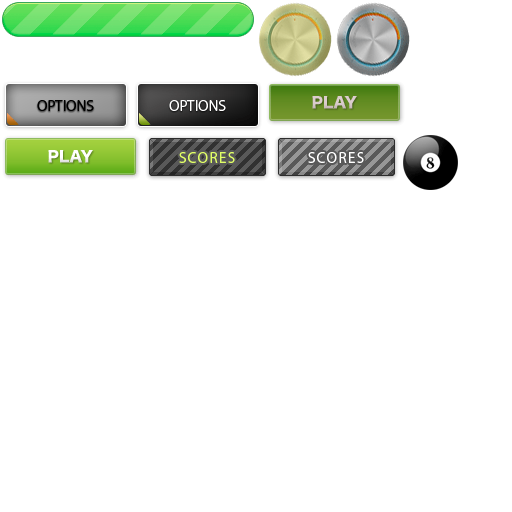
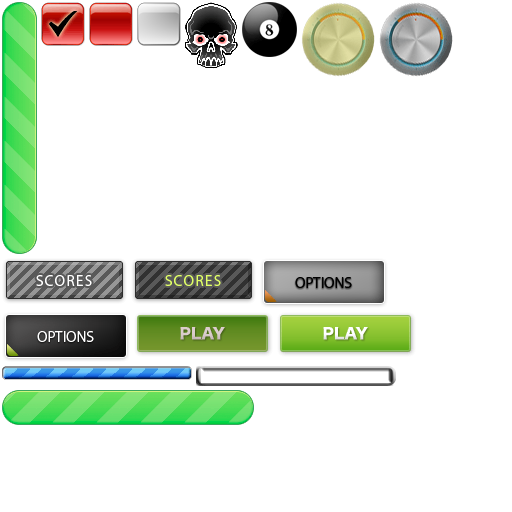
continued support added for TP workflow and HD/SD

diff --git a/Assets/DemoSceneScripts/KitchenSinkManager.cs b/Assets/DemoSceneScripts/KitchenSinkManager.cs
@@ -12,20 +12,21 @@ public class KitchenSinkManager : MonoBehaviour
 		var playButton = UI.instance.addSpriteButton( "playUp.png", 10, 10 );
 		playButton.highlightedUVframe = UI.instance.uvRectForFilename( "playDown.png" );
 		playButton.highlightedTouchOffsets = new UIEdgeOffsets( 30 );
-		playButton.touchUpInside += sender => Debug.Log( "clicked the button: " + sender );
+		playButton.onTouchUpInside += sender => Debug.Log( "clicked the button: " + sender );
+		
 		
 		// Scores button
 		var scores = UI.instance.addSpriteButton( "scoresUp.png", 10, 75 );
 		scores.highlightedUVframe = UI.instance.uvRectForFilename( "scoresDown.png" );
 		scores.highlightedTouchOffsets = new UIEdgeOffsets( 30 );
-		scores.action = onTouchUpInsideScoresButton;
+		scores.onTouchUpInside += onTouchUpInsideScoresButton;
 		scores.color = new Color( 1, 1, 1, 0.5f );
 		
 		
 		// Options button
 		var optionsButton = UI.instance.addSpriteButton( "optionsUp.png", 10, 130 );
 		optionsButton.highlightedUVframe = UI.instance.uvRectForFilename( "optionsDown.png" );
-		optionsButton.action = onTouchUpInsideOptionsButton;
+		optionsButton.onTouchUpInside += onTouchUpInsideOptionsButton;
 		
 		
 		// Knob
@@ -40,15 +41,13 @@ public class KitchenSinkManager : MonoBehaviour
 		var hSliderKnob = UI.instance.addSprite( "sliderKnob.png", 20, 210 );
 		var hSlider = new UISlider( UI.instance.textureInfoForFilename( "hSlider.png" ), 10, 220, hSliderKnob, UISliderLayout.Horizontal );
 		// Increase our hit area a bit while we are tracking along the slider
-		hSlider.highlightedTouchOffsets = new UIEdgeOffsets( 20, 30, 20, 30 );
-		hSlider.value = 0.2f;
+		hSlider.highlightedTouchOffsets = new UIEdgeOffsets( 30, 20, 30, 20 );
+		hSlider.value = 0.5f;
 		
 		
-		/*
 		// Vertical Slider.  Be sure to offset the sliderKnobs Y value to line it up properly
-		UISprite vSliderKnob = UI.instance.addSprite( new Rect( 412, 50, 35, 10 ), new UIUVRect( 345, 130, 35, 10 ), 1 );
-		UISlider vSlider = new UISlider( new Rect( 420, 50, 20, 200 ), 3, new UIUVRect( 320, 130, 20, 200 ), vSliderKnob, UISliderLayout.Vertical, onVSliderChanged );
-		UI.instance.addTouchableSprite( vSlider );
+		var vSliderKnob = UI.instance.addSprite( "vSliderKnob.png", 420, 0 );
+		var vSlider = UISlider.create( "vSlider.png", 430, 10, vSliderKnob, UISliderLayout.Vertical );
 		// Increase our hit area a bit while we are tracking along the slider
 		vSlider.highlightedTouchOffsets = new UIEdgeOffsets( 20, 30, 20, 30 );
 		vSlider.continuous = true;
@@ -56,30 +55,31 @@ public class KitchenSinkManager : MonoBehaviour
 		
 		
 		// Toggle Button
-		UIUVRect normalUVframe = new UIUVRect( 0, 400, 50, 50 );
-		UIUVRect highlightedUVframe = new UIUVRect( 0, 450, 50, 50 );
-		UIUVRect selectedUVframe = new UIUVRect( 50, 400, 50, 50 );
-		Rect toggleFrame = new Rect( 270, 80, 50, 50 );
-		UIToggleButton toggleButton = new UIToggleButton( toggleFrame, 2, normalUVframe, selectedUVframe, highlightedUVframe );
-		toggleButton.action = onToggleButtonChanged;
-		UI.instance.addTouchableSprite( toggleButton );
-		toggleButton.selected = true; // Dont change this until the button has been added
+		var toggleButton = UIToggleButton.create( "cbUnchecked.png", "cbChecked.png", "cbDown.png", 300, 260 );
+		toggleButton.onToggle += onToggleButtonChanged;
+		toggleButton.selected = true;
 		
 		
 		// Progress/Health bar (be sure the bar is on a lower level than the GUIProgressBar
-		UISprite bar = UI.instance.addSprite( new Rect( 251, 267, 128, 8 ), new UIUVRect( 191, 430, 128, 8 ), 1 );
-		UIProgressBar progressBar = new UIProgressBar( new Rect( 240, 250, 150, 30 ), 3, new UIUVRect( 180, 400, 150, 30 ), bar );
+		var progressBar = UIProgressBar.create( "progressBar.png", "progressBarBorder.png", 5, 3, 200, 150 );
 		progressBar.resizeTextureOnChange = true;
-		UI.instance.addSprite( progressBar );
-		progressBar.value = 0.0f;
+		progressBar.value = 0.4f;
 		
-
+		
 		// Test movement
 		StartCoroutine( marqueePlayButton( playButton ) );
 		StartCoroutine( animateProgressBar( progressBar ) );
 		StartCoroutine( pulseOptionButton( optionsButton ) );
 		
 		
+		/*		
+		// Progress/Health bar (be sure the bar is on a lower level than the GUIProgressBar
+		UISprite bar = UI.instance.addSprite( new Rect( 251, 267, 128, 8 ), new UIUVRect( 191, 430, 128, 8 ), 1 );
+		UIProgressBar progressBar = new UIProgressBar( new Rect( 240, 250, 150, 30 ), 3, new UIUVRect( 180, 400, 150, 30 ), bar );
+		progressBar.resizeTextureOnChange = true;
+		UI.instance.addSprite( progressBar );
+		progressBar.value = 0.0f;
+
 		
 		// Swipe detector view - big, giant touchbleSprite behind all others
 		UISwipeDetector detector = new UISwipeDetector( new Rect( 0, 60f, Screen.width, Screen.height - 60f ), 10, new UIUVRect( 450, 50, 408, 306 ) );
@@ -201,7 +201,8 @@ public class KitchenSinkManager : MonoBehaviour
 	{
 		swipeText.text = direction.ToString();
 	}
-	
+
+
 	// Button callback
 	public void onTouchUpInsideScoresButton( UISpriteButton sender )
 	{

diff --git a/Assets/Plugins/UISpriteManager.cs b/Assets/Plugins/UISpriteManager.cs
@@ -75,9 +75,7 @@ public class UISpriteManager : MonoBehaviour
         // Move the object to the origin so the objects drawn will not be offset from the objects they are intended to represent.
         transform.position = Vector3.zero;
         transform.rotation = Quaternion.identity;
-		
-		var textureName = texturePackerConfigName;
-		
+
 		// handle texture loading if required
 		if( autoTextureSelectionForHD )
 		{
@@ -88,13 +86,16 @@ public class UISpriteManager : MonoBehaviour
 			if( Screen.width >= 960 || Screen.height >= 960 )
 #endif
 			{
-				textureName = texturePackerConfigName + "2x";
+#if UNITY_EDITOR
+				Debug.Log( "switching to 2x GUI texture" );
+#endif
+				texturePackerConfigName = texturePackerConfigName + "2x";
 				isHD = true;
 			}
 		}
 
 		// load our texture		
-		var texture = (Texture)Resources.Load( textureName, typeof( Texture ) );
+		var texture = (Texture)Resources.Load( texturePackerConfigName, typeof( Texture ) );
 		if( texture == null )
 			Debug.Log( "UI texture is being autoloaded and it doesnt exist: " + texturePackerConfigName );
 		material.SetTexture( "_MainTex", texture );
@@ -199,7 +200,7 @@ public class UISpriteManager : MonoBehaviour
 				ti.uvRect = new UIUVRect( frameX, frameY, frameW, frameH );
 				
 				// if we are HD, double our size and uvRect
-				if( isHD )
+				if( false )
 				{
 					ti.uvRect.doubleForHD();
 					ti.size.x *= 2;
@@ -387,13 +388,13 @@ public class UISpriteManager : MonoBehaviour
 	#region Add/Remove sprite functions
 
 	// shortcut for adding a new sprite
-    public UISprite addSprite( string name, int xPos, int yPos )
+    public UISprite addSprite( string name, int xPos, int yPos, bool gameObjectOriginInCenter = false )
     {
-		return this.addSprite( name, xPos, yPos, 1 );
+		return this.addSprite( name, xPos, yPos, 1, gameObjectOriginInCenter );
     }
 
 
-    public UISprite addSprite( string name, int xPos, int yPos, int depth )
+    public UISprite addSprite( string name, int xPos, int yPos, int depth, bool gameObjectOriginInCenter = false )
     {
 #if UNITY_EDITOR
 		// sanity check while in editor
@@ -408,10 +409,10 @@ public class UISpriteManager : MonoBehaviour
 
 	
 	// shortcut for adding a new sprite
-    public UISprite addSprite( Rect frame, UIUVRect uvFrame, int depth )
+    public UISprite addSprite( Rect frame, UIUVRect uvFrame, int depth, bool gameObjectOriginInCenter = false )
     {
         // Create and initialize the new sprite
-		UISprite newSprite = new UISprite( frame, depth, uvFrame );
+		UISprite newSprite = new UISprite( frame, depth, uvFrame, gameObjectOriginInCenter );
 		addSprite( newSprite );
 		
 		return newSprite;

diff --git a/Assets/Plugins/UIElements/UIProgressBar.cs b/Assets/Plugins/UIElements/UIProgressBar.cs
@@ -12,15 +12,29 @@ public class UIProgressBar : UISprite
 	private UIUVRect _barOriginalUVframe;
 	
 	
+	// the bars x/y coordinates should be relative to the borders
+	public static UIProgressBar create( string barFilename, string borderFilename, int barxPos, int baryPos, int borderxPos, int borderyPos )
+	{
+		var bar = UI.instance.addSprite( barFilename, borderxPos + barxPos, borderyPos + baryPos, 2 );
+		
+		var borderTI = UI.instance.textureInfoForFilename( borderFilename );
+		var borderFrame = new Rect( borderxPos, borderyPos, borderTI.size.x, borderTI.size.y );
+		
+		return new UIProgressBar( borderFrame, 1, borderTI.uvRect, bar );
+	}
+	
+	
 	public UIProgressBar( Rect frame, int depth, UIUVRect uvFrame, UISprite bar ):base( frame, depth, uvFrame )
 	{
-		// Save the bar and make it a child of the slider for organization purposes
+		// Save the bar and make it a child of the container/border for organization purposes
 		_bar = bar;
 		_bar.clientTransform.parent = this.clientTransform;
 		
 		// Save the bars original size
 		_barOriginalWidth = _bar.width;
 		_barOriginalUVframe = _bar.uvFrame;
+		
+		UI.instance.addSprite( this );
 	}
 
 

diff --git a/Assets/Plugins/UIElements/UIToggleButton.cs b/Assets/Plugins/UIElements/UIToggleButton.cs
@@ -17,6 +17,18 @@ public class UIToggleButton : UITouchableSprite
 
 	#region Constructors
 	
+	public static UIToggleButton create( string filename, string selectedFilename, string highlightedFilename, int xPos, int yPos )
+	{
+		var textureInfo = UI.instance.textureInfoForFilename( filename );
+		var frame = new Rect( xPos, yPos, textureInfo.size.x, textureInfo.size.y );
+		
+		var selectedTI = UI.instance.textureInfoForFilename( selectedFilename );
+		var highlightedTI = UI.instance.textureInfoForFilename( highlightedFilename );
+		
+		return new UIToggleButton( frame, 1, textureInfo.uvRect, selectedTI.uvRect, highlightedTI.uvRect );
+	}
+	
+	
 	public UIToggleButton( Rect frame, int depth, UIUVRect uvFrame, UIUVRect selectedUVframe ):base( frame, depth, uvFrame )
 	{
 		this.selectedUVframe = selectedUVframe;
@@ -27,6 +39,8 @@ public class UIToggleButton : UITouchableSprite
 		// If a highlighted frame has not yet been set use the normalUVframe
 		if( highlightedUVframe == UIUVRect.zero )
 			highlightedUVframe = uvFrame;
+		
+		UI.instance.addTouchableSprite( this );
 	}
 
 

diff --git a/Assets/Plugins/UIElements/UISpriteButton.cs b/Assets/Plugins/UIElements/UISpriteButton.cs
@@ -5,8 +5,7 @@ public delegate void UIButtonTouchUpInside( UISpriteButton sender );
 
 public class UISpriteButton : UITouchableSprite
 {
-	public event UIButtonTouchUpInside touchUpInside;
-	public UIButtonTouchUpInside action = null; // Delegate for when we get a touchUpInside
+	public event UIButtonTouchUpInside onTouchUpInside;
 	
 	private UIUVRect _normalUVframe; // Holds a copy of the uvFrame that the button was initialized with
 	public UIUVRect highlightedUVframe;
@@ -79,8 +78,8 @@ public class UISpriteButton : UITouchableSprite
 		highlighted = false;
 		
 		// If the touch was inside our touchFrame and we have an action, call it
-		if( touchWasInsideTouchFrame && touchUpInside != null )
-			touchUpInside( this );
+		if( touchWasInsideTouchFrame && onTouchUpInside != null )
+			onTouchUpInside( this );
 	}
 
 

diff --git a/Assets/Plugins/UIElements/UISlider.cs b/Assets/Plugins/UIElements/UISlider.cs
@@ -17,6 +17,15 @@ public class UISlider : UITouchableSprite
 	public event UISliderChanged onChange;
 	
 	
+	public static UISlider create( string filename, int xPos, int yPos, UISprite sliderKnob, UISliderLayout layout )
+	{
+		var textureInfo = UI.instance.textureInfoForFilename( filename );
+		var frame = new Rect( xPos, yPos, textureInfo.size.x, textureInfo.size.y );
+		
+		return new UISlider( frame, 5, textureInfo.uvRect, sliderKnob, layout );
+	}
+	
+	
 	public UISlider( UITextureInfo textureInfo, int xPos, int yPos, UISprite sliderKnob, UISliderLayout layout ):this( new Rect( xPos, yPos, textureInfo.size.x, textureInfo.size.y ), 5, textureInfo.uvRect, sliderKnob, layout )
 	{
 		
